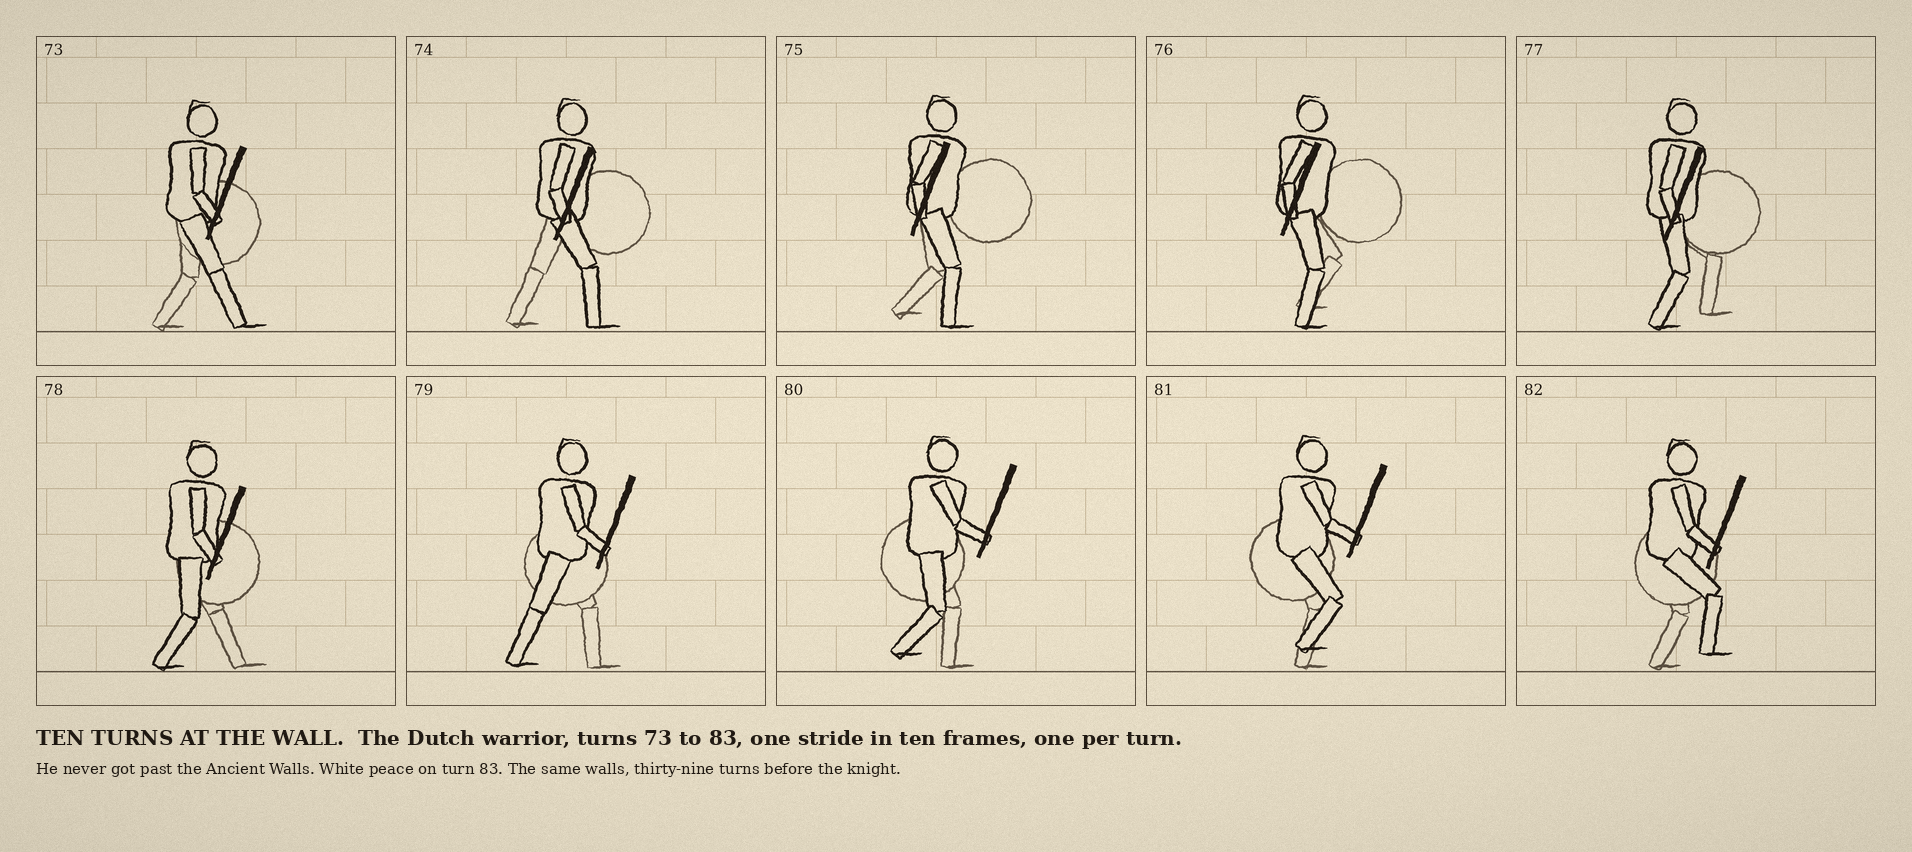
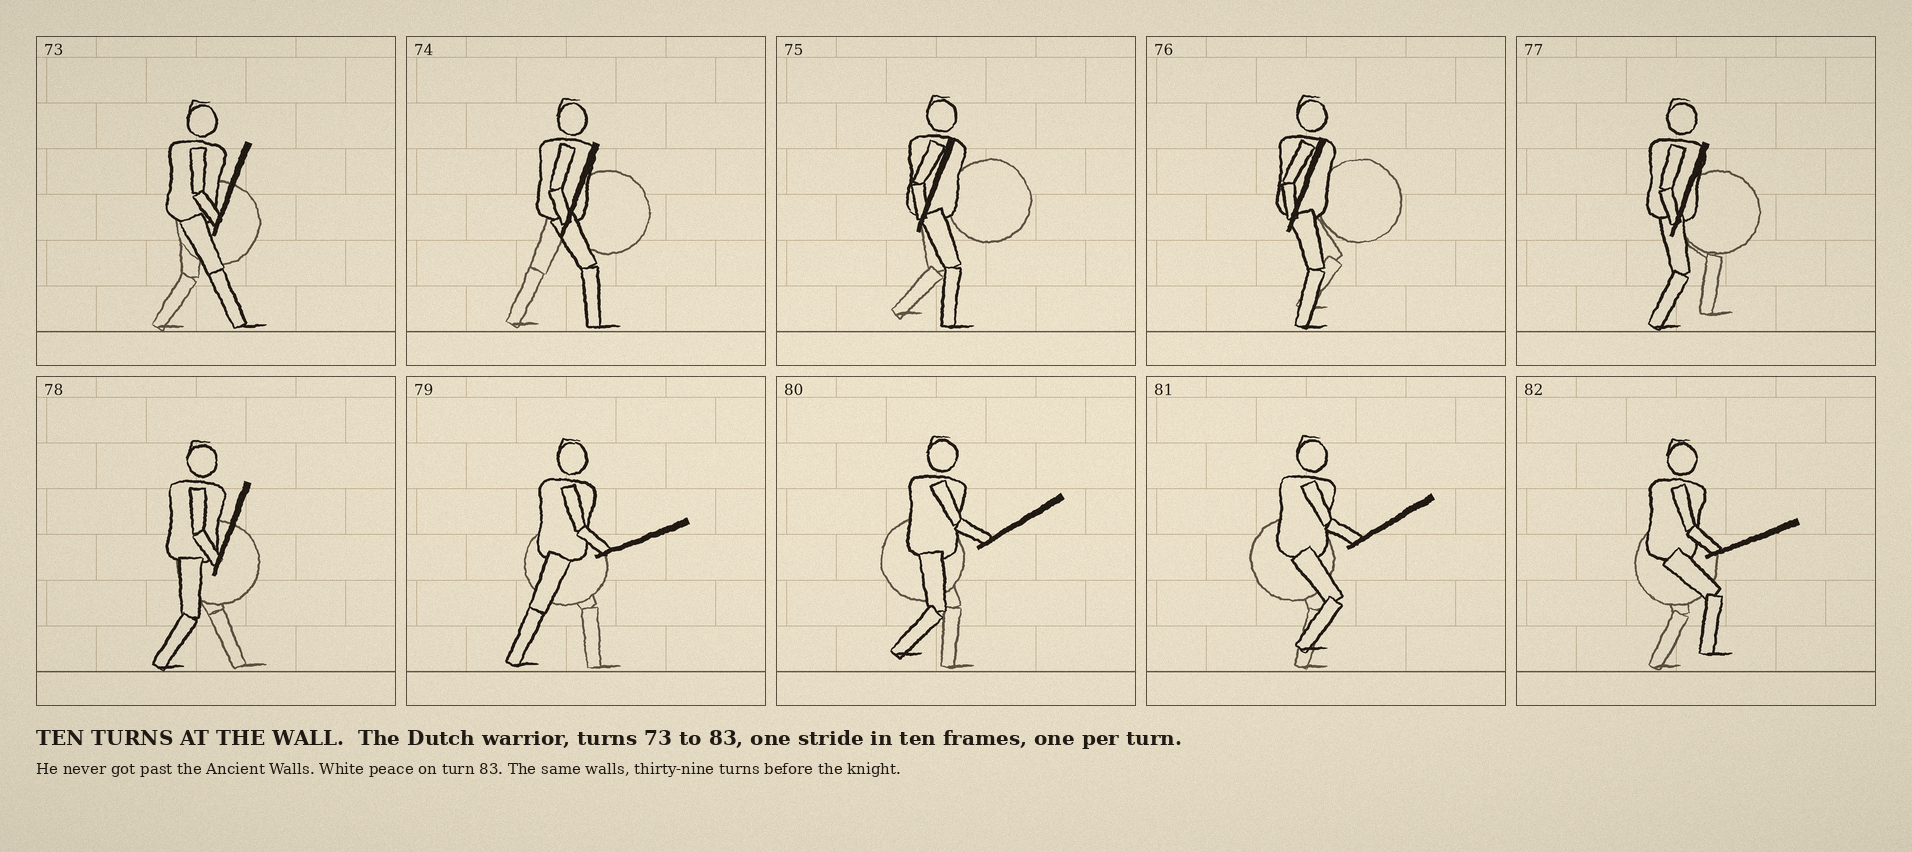
Knight at Uruk: contact sheet; the warrior's club follows the forearm

diff --git a/portfolio/2026-10-26-the-knight-at-uruk/warrior.py b/portfolio/2026-10-26-the-knight-at-uruk/warrior.py
@@ -69,8 +69,16 @@ def draw_warrior(pen, far, d, to_px, body, t):
     pen.outline([(head[0] + r * 0.92 * math.cos(a), head[1] + r * math.sin(a)) for a in [i * 2 * math.pi / 18 for i in range(18)]], 0.011, pieces=2)
     pen.stroke([(head[0] - r, head[1] + 0.02), (head[0] - r * 0.6, head[1] + r + 0.03), (head[0] + r * 0.5, head[1] + r + 0.02)], 0.009, 0.005)  # hair
     hn = arm(pen, "near")
-    # club in the near hand, resting on the shoulder when the arm is back
-    pen.stroke([(hn[0] - 0.08, hn[1] - 0.12), (hn[0] + 0.18, hn[1] + 0.55)], 0.014, 0.026, taper=False)
+    # club in the near hand, continuing the forearm's line and canted up, so it rides
+    # over the shoulder on the back-swing and points ahead on the fore-swing
+    e = arms["near"][1]
+    cx, cy = hn[0] - e[0], hn[1] - e[1]
+    L = math.hypot(cx, cy) or 1e-6
+    cx, cy = cx / L, cy / L
+    ux, uy = cx * 0.5 - cy * 0.87, cx * 0.87 + cy * 0.5  # rotated 60 degrees upward
+    if uy < 0.2:
+        ux, uy = 0.35, 0.94
+    pen.stroke([(hn[0] - 0.10 * ux, hn[1] - 0.10 * uy), (hn[0] + 0.62 * ux, hn[1] + 0.62 * uy)], 0.014, 0.026, taper=False)
 
 
 def main():
